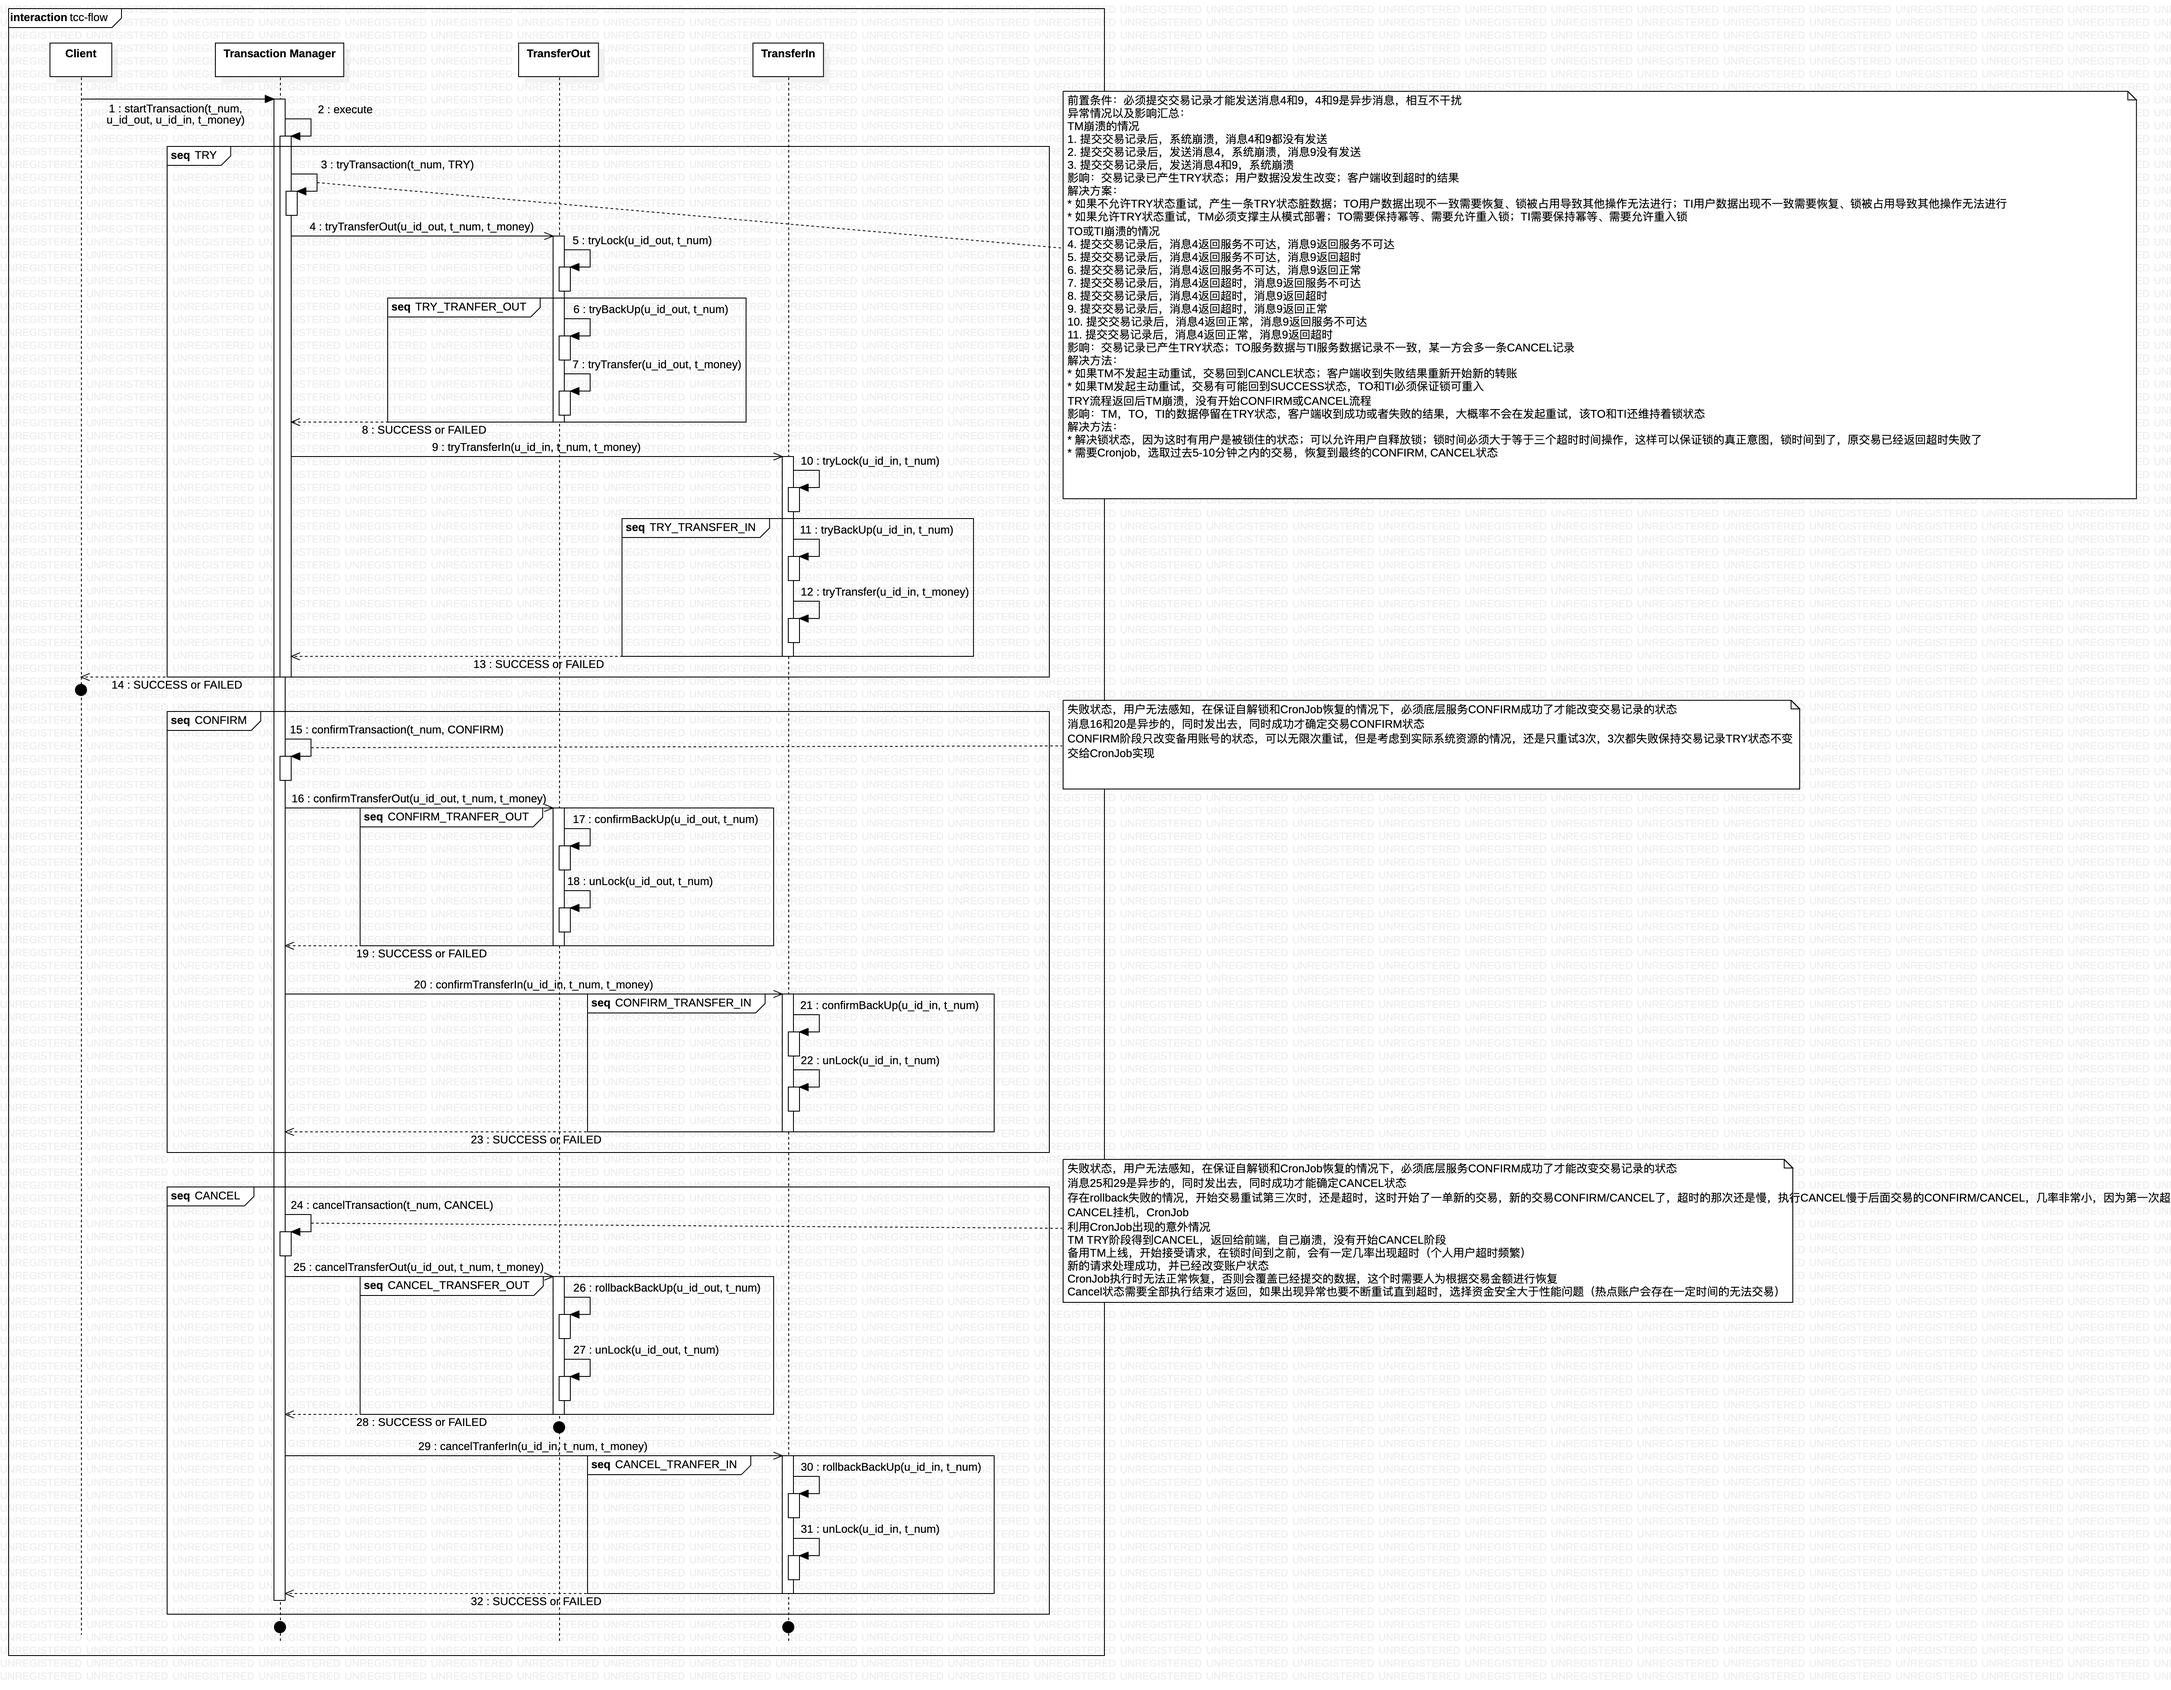
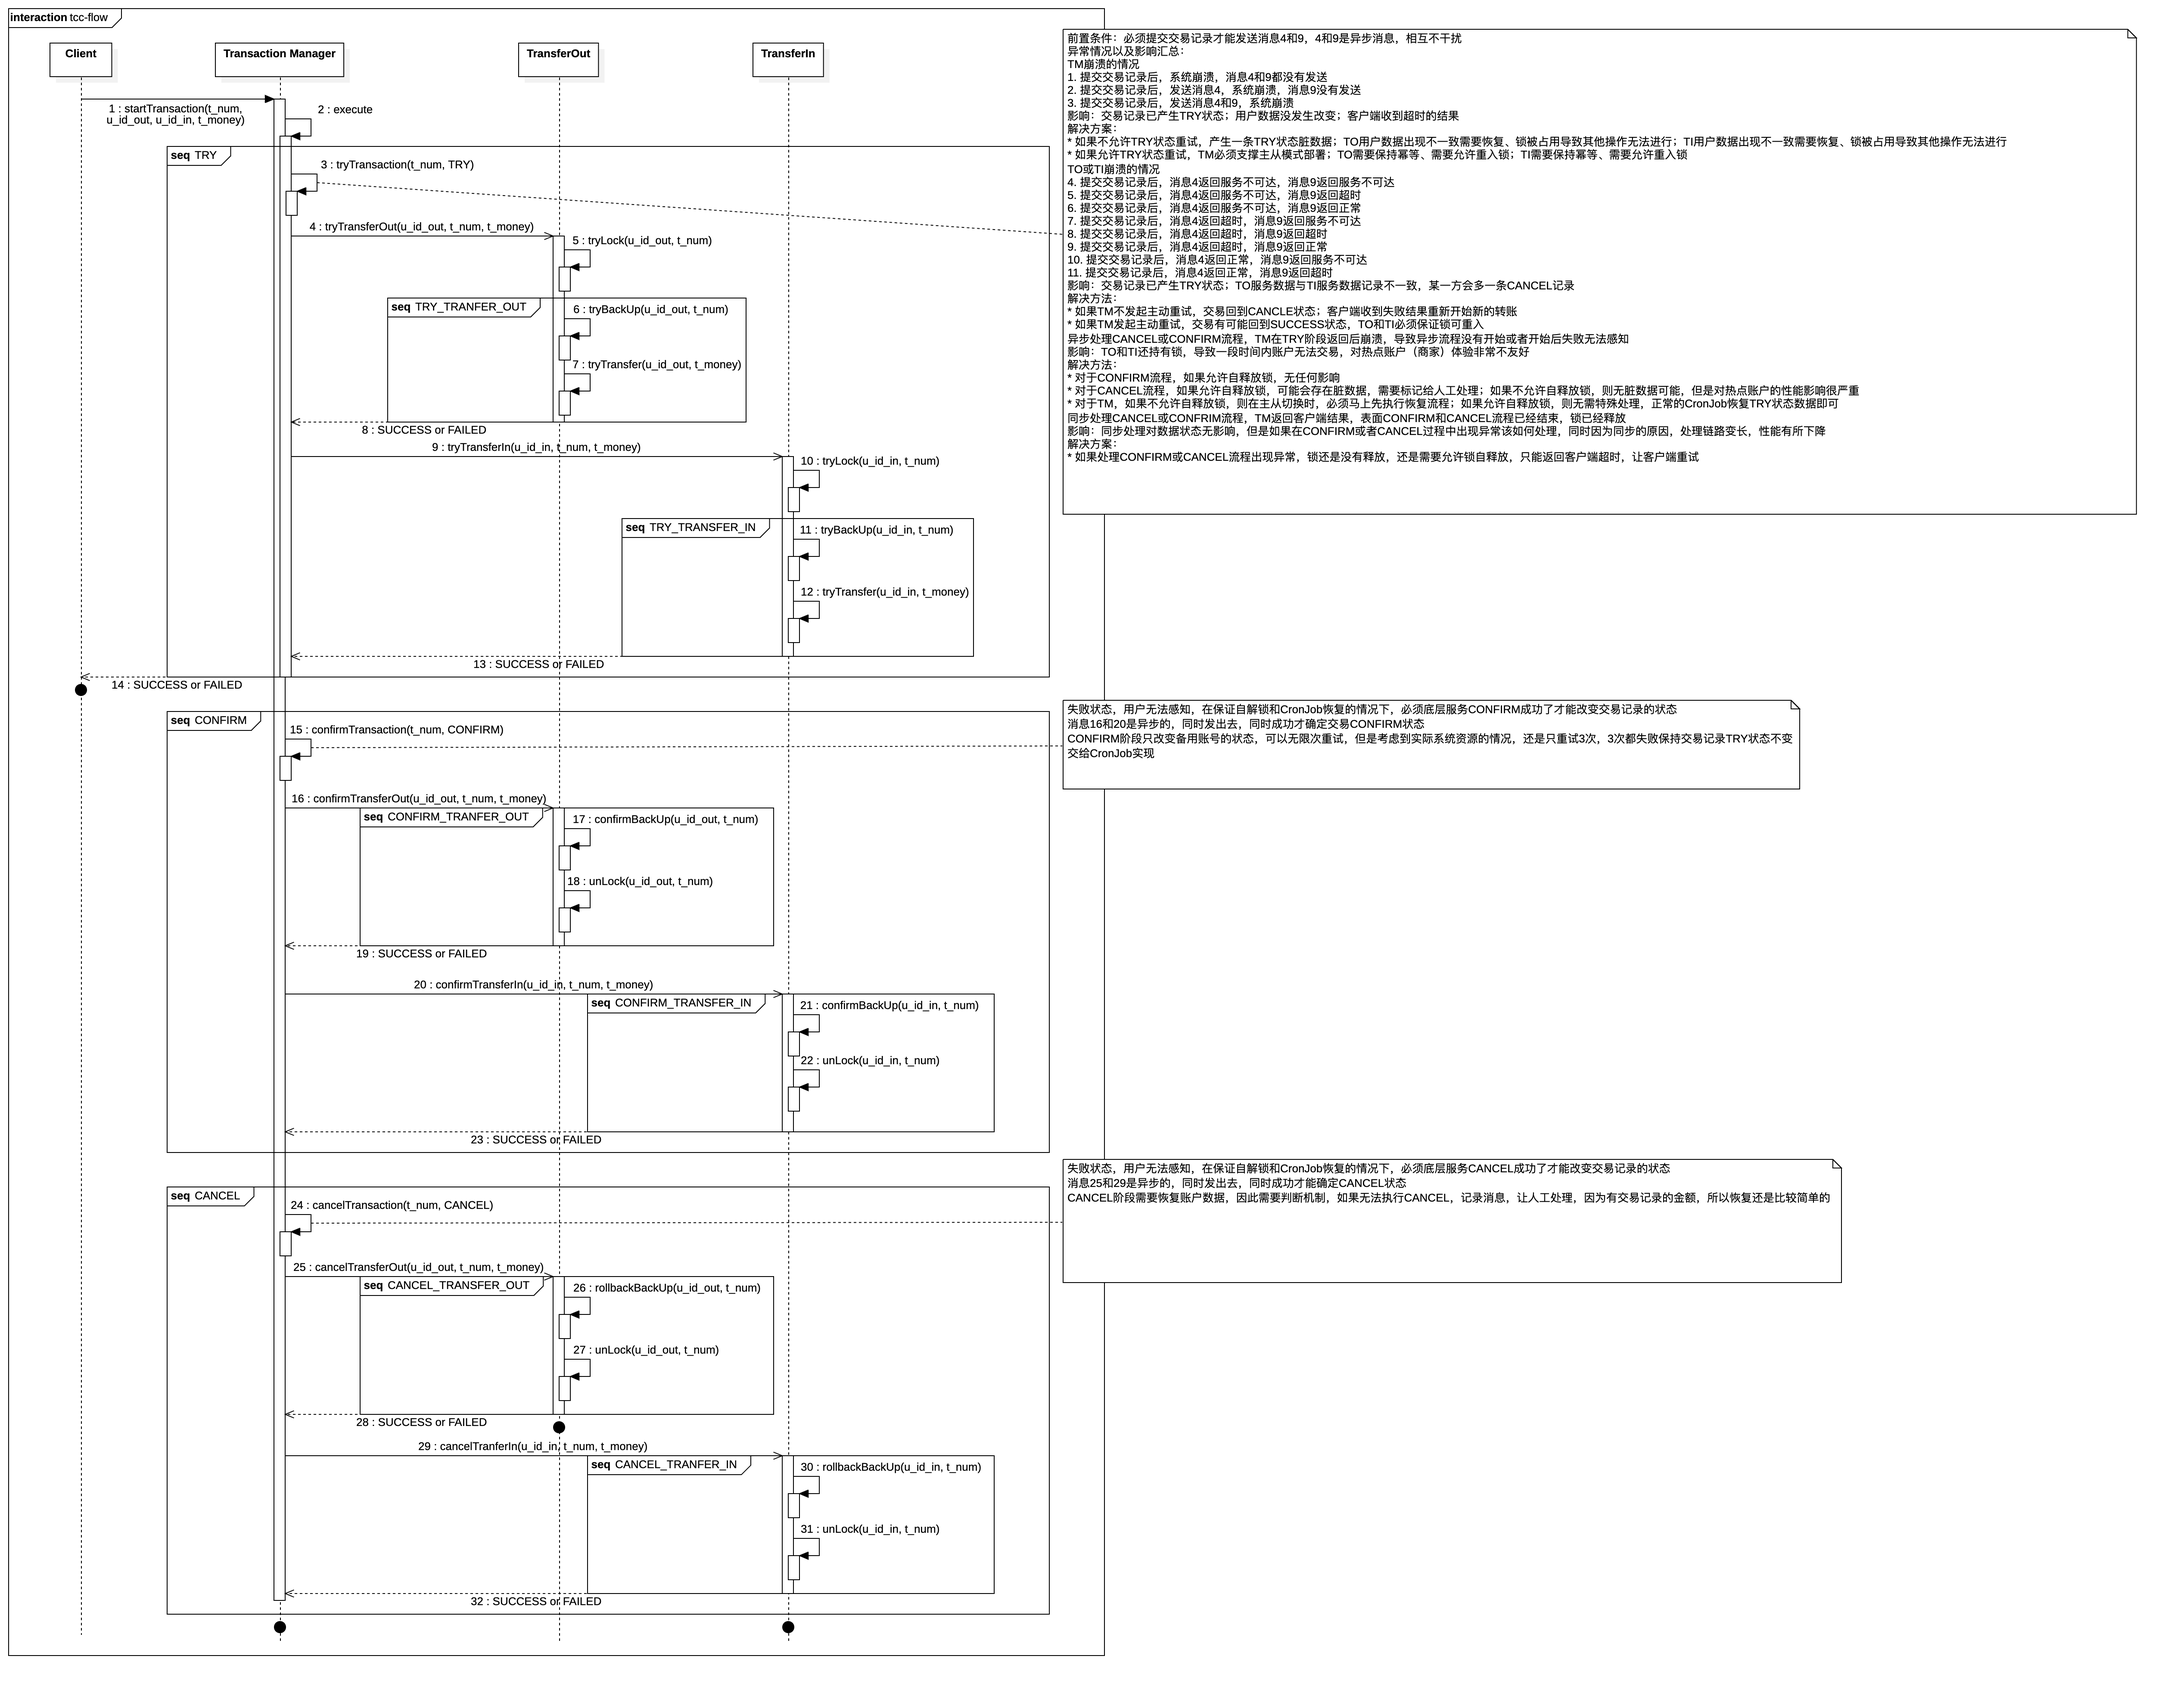
[Shiyi] finish tcc design

diff --git a/README.md b/README.md
@@ -37,7 +37,15 @@
 * 完成支付服务,能够正常的在两个数据库之间转账
 * 总结同步调用之间的事务处理问题
 
-* 交易时序图，今晚完结，整理好架构
+* 交易时序图，架构设计决定：
+    * 并发要求高，则应用如下规则
+        * TM，TRY状态允许重试，需要CronJob定时恢复TRY状态记录，CONFIRM和CANCEL流程异步化处理，集群部署
+        * TO，需要保持幂等，需要允许锁冲入，允许锁超时自释放，需要标记无法执行CANCEL流程的记录，集群部署
+        * TI，需要保持幂等，需要允许锁冲入，允许锁超时自释放，需要标记无法执行CANCEL流程的记录，集群部署
+    * 资金安全要求高，则应用如下规则
+        * TM，TRY状态允许重试，CONFIRM和CANCEL流程异步化处理，集群部署
+        * TO，需要保持幂等，需要允许锁冲入，不允许锁超时自释放，集群部署
+        * TI，需要保持幂等，需要允许锁冲入，不允许锁超时自释放，集群部署
 
 ![tcc-flow](./tcc-flow.png)
 
